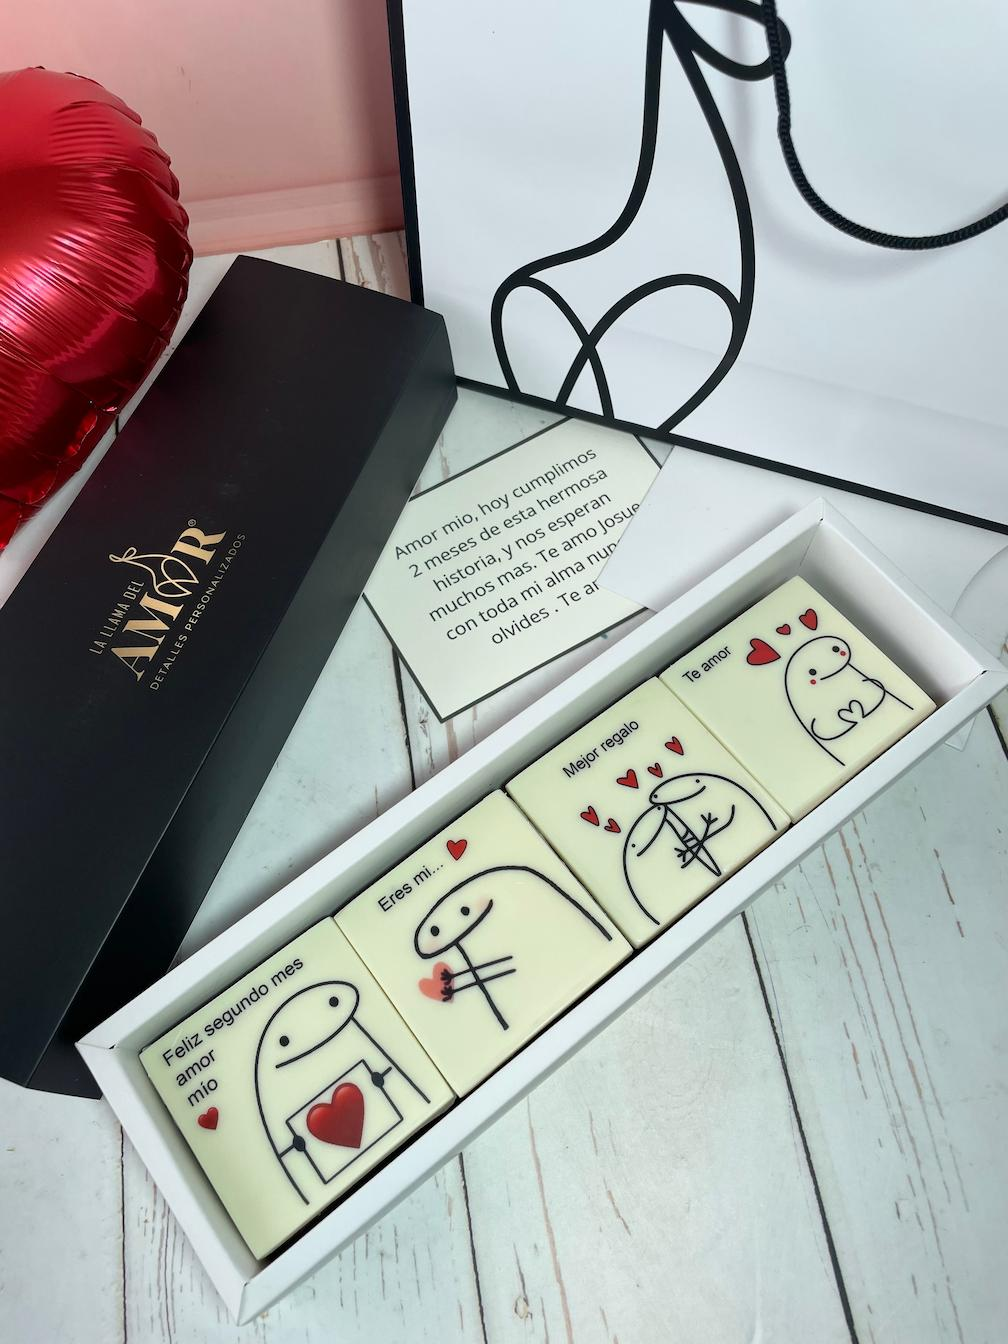
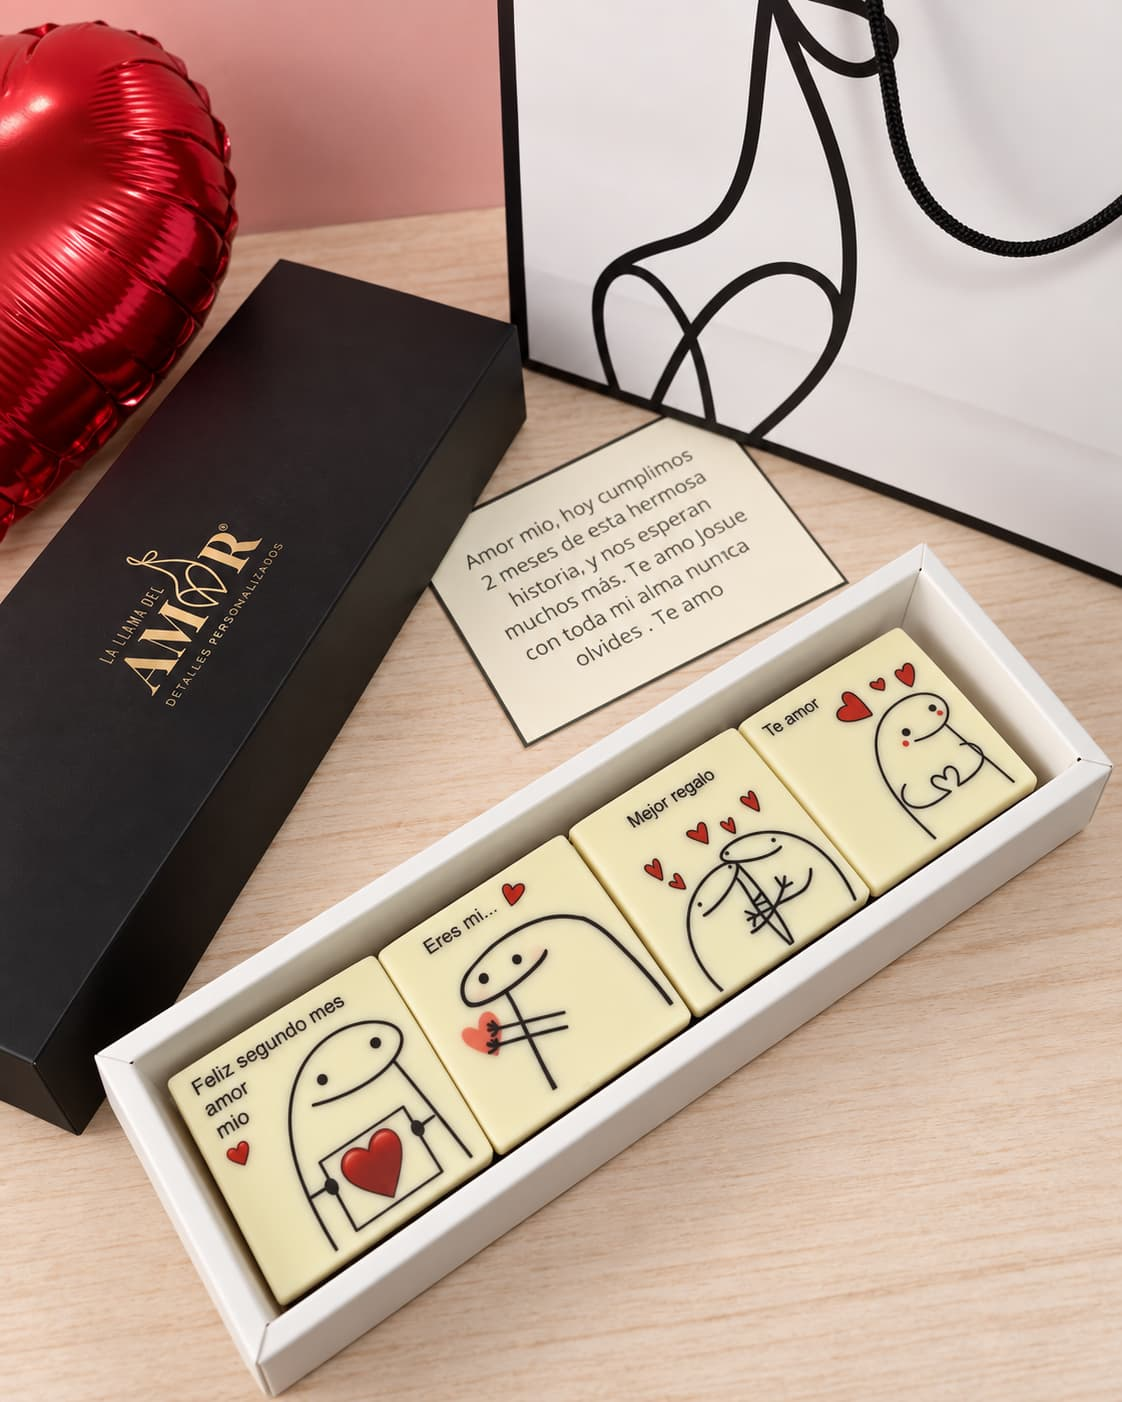
nuevas fotos

diff --git a/lib/catalog.ts b/lib/catalog.ts
@@ -438,7 +438,6 @@ export const productos: Product[] = [
     image: "/caja-miski-chocolate-aniversario-4a.jpg",
     waText: 'Hola, quiero info del regalo "Caja Miski de Aniversario - Años". ¿Opciones y precio?',
     occasions: ["aniversario"],
-    priority: { aniversario: 60 },
   },
   {
     id: "LLA-026",
@@ -979,6 +978,41 @@ export const productos: Product[] = [
     waText: 'Hola, quiero info del regalo "Pack Choco Brownie y peluche de Llamita 🍫🦙". ¿Opciones y precio?',
     occasions: ["cumpleanos"],
     priority: { cumpleanos: 40 },
+  },
+          {
+    id: "LLA-072",
+    slug: "correo-postal-chocolate-feliz-cumple-regalo-lima",
+    title: "Correo Postal de Chocolate - Feliz Cumple",
+    subtitle: "Caja con mensaje en chocolate. Personaliza la tapa interna con una foto y texto",
+    price: "S/85",
+    tags: ["foto", "chocolate", "cumple"],
+    image: "/correo-postal-chocolate-cumple-lima-regalo.jpg",
+    waText: "Hola, quiero el Correo Postal 'Feliz Cumple'. ¿Me das más detalle del producto?",
+    occasions: ["inicio", "cumpleanos"],
+    priority: { cumpleanos: 71},
+  },
+    {
+    id: "LLA-073",
+    slug: "correo-postal-chocolate-felices-6-meses-mesario-anivesario-regalo-lima",
+    title: "Correo Postal de Chocolate - Mesario",
+    subtitle: "Caja con mensaje en chocolate. Personaliza la tapa interna con una foto y texto",
+    price: "S/85",
+    tags: ["foto", "chocolate", "aniversario"],
+    image: "/correo-postal-chocolate-felices-6-meses-aniversario-lima-regalo.jpg",
+    waText: "Hola, quiero el Correo Postal 'Mesario'. ¿Me das más detalle del producto?",
+    occasions: ["aniversario"],
+    priority: { aniversario: 60 },
+  },
+    {
+    id: "LLA-074",
+    slug: "correo-postal-chocolate-feliz-dia-bebe-aniversario-amor-lima",
+    title: "Correo Postal de Chocolate - Feliz Día Bebé",
+    subtitle: "Caja con mensaje en chocolate. Personaliza la tapa interna con una foto y texto",
+    price: "S/85",
+    tags: ["foto", "chocolate", "aniversario"],
+    image: "/correo-postal-chocolate-feliz-dia-bebe-aniversario-amor-lima.jpg",
+    waText: "Hola, quiero el Correo Postal 'Feliz Día Bebé'. ¿Me das más detalle del producto?",
+    occasions: ["aniversario"],
   },
 ];
 
